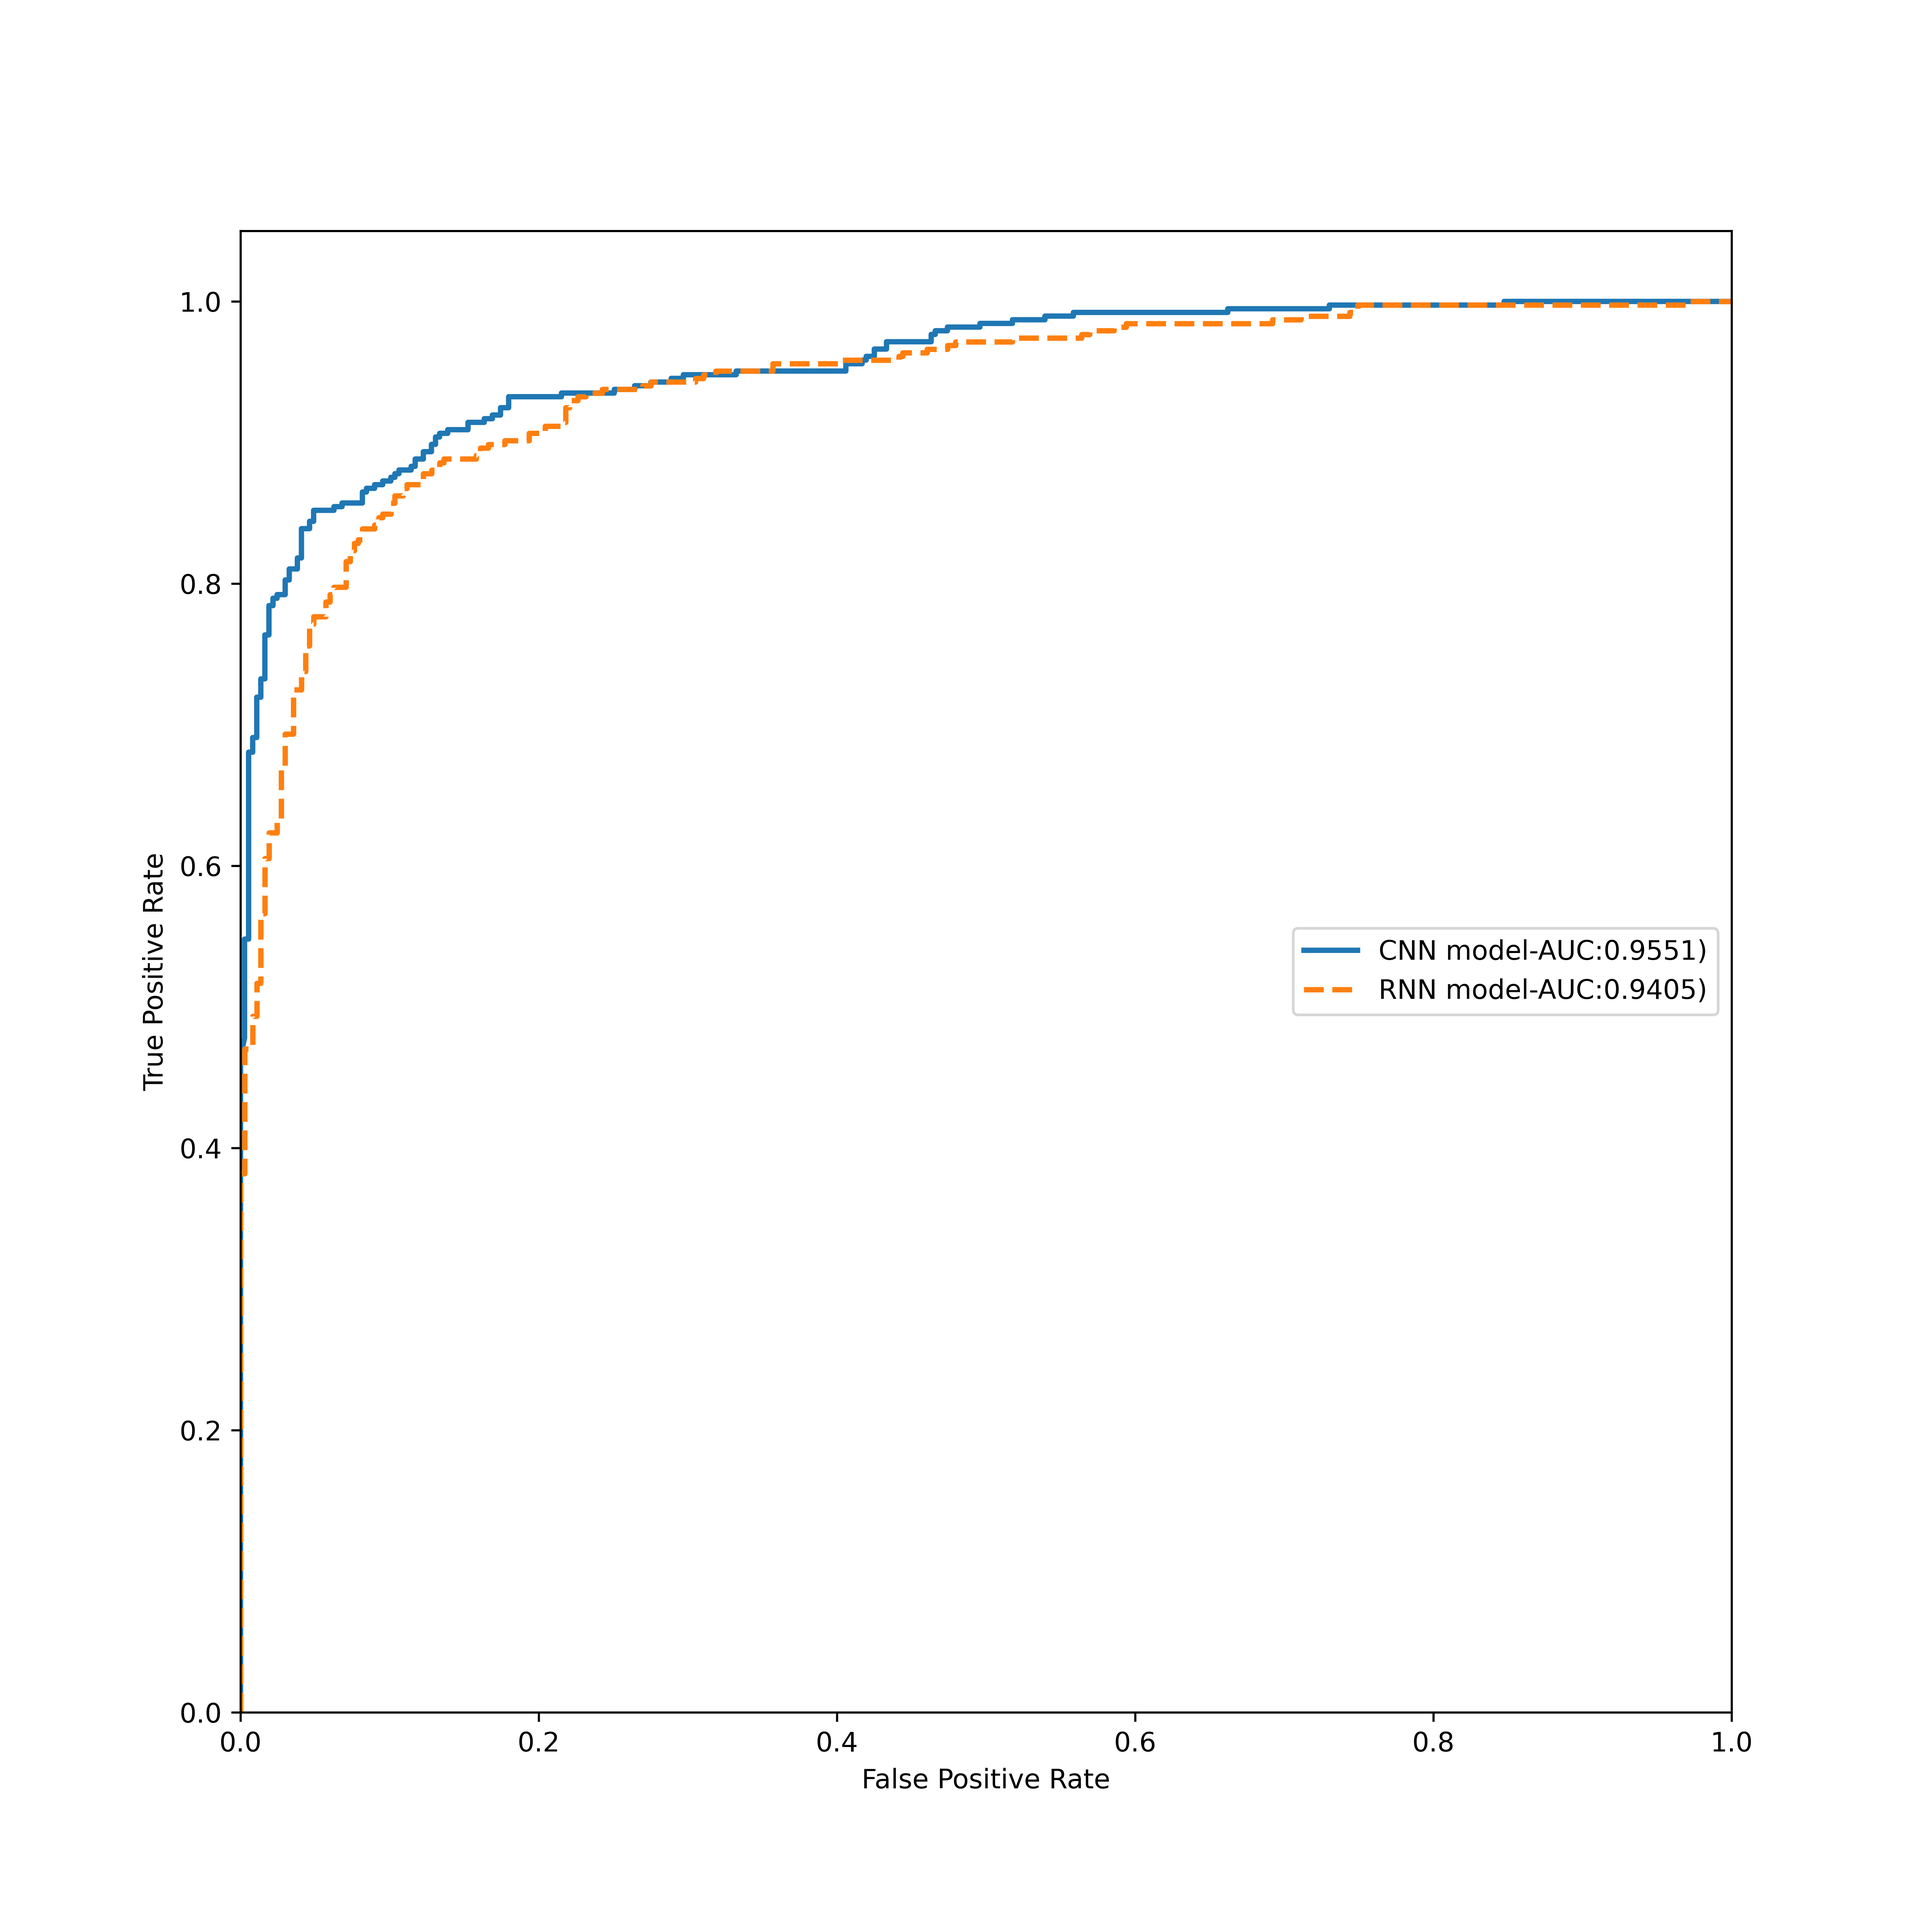
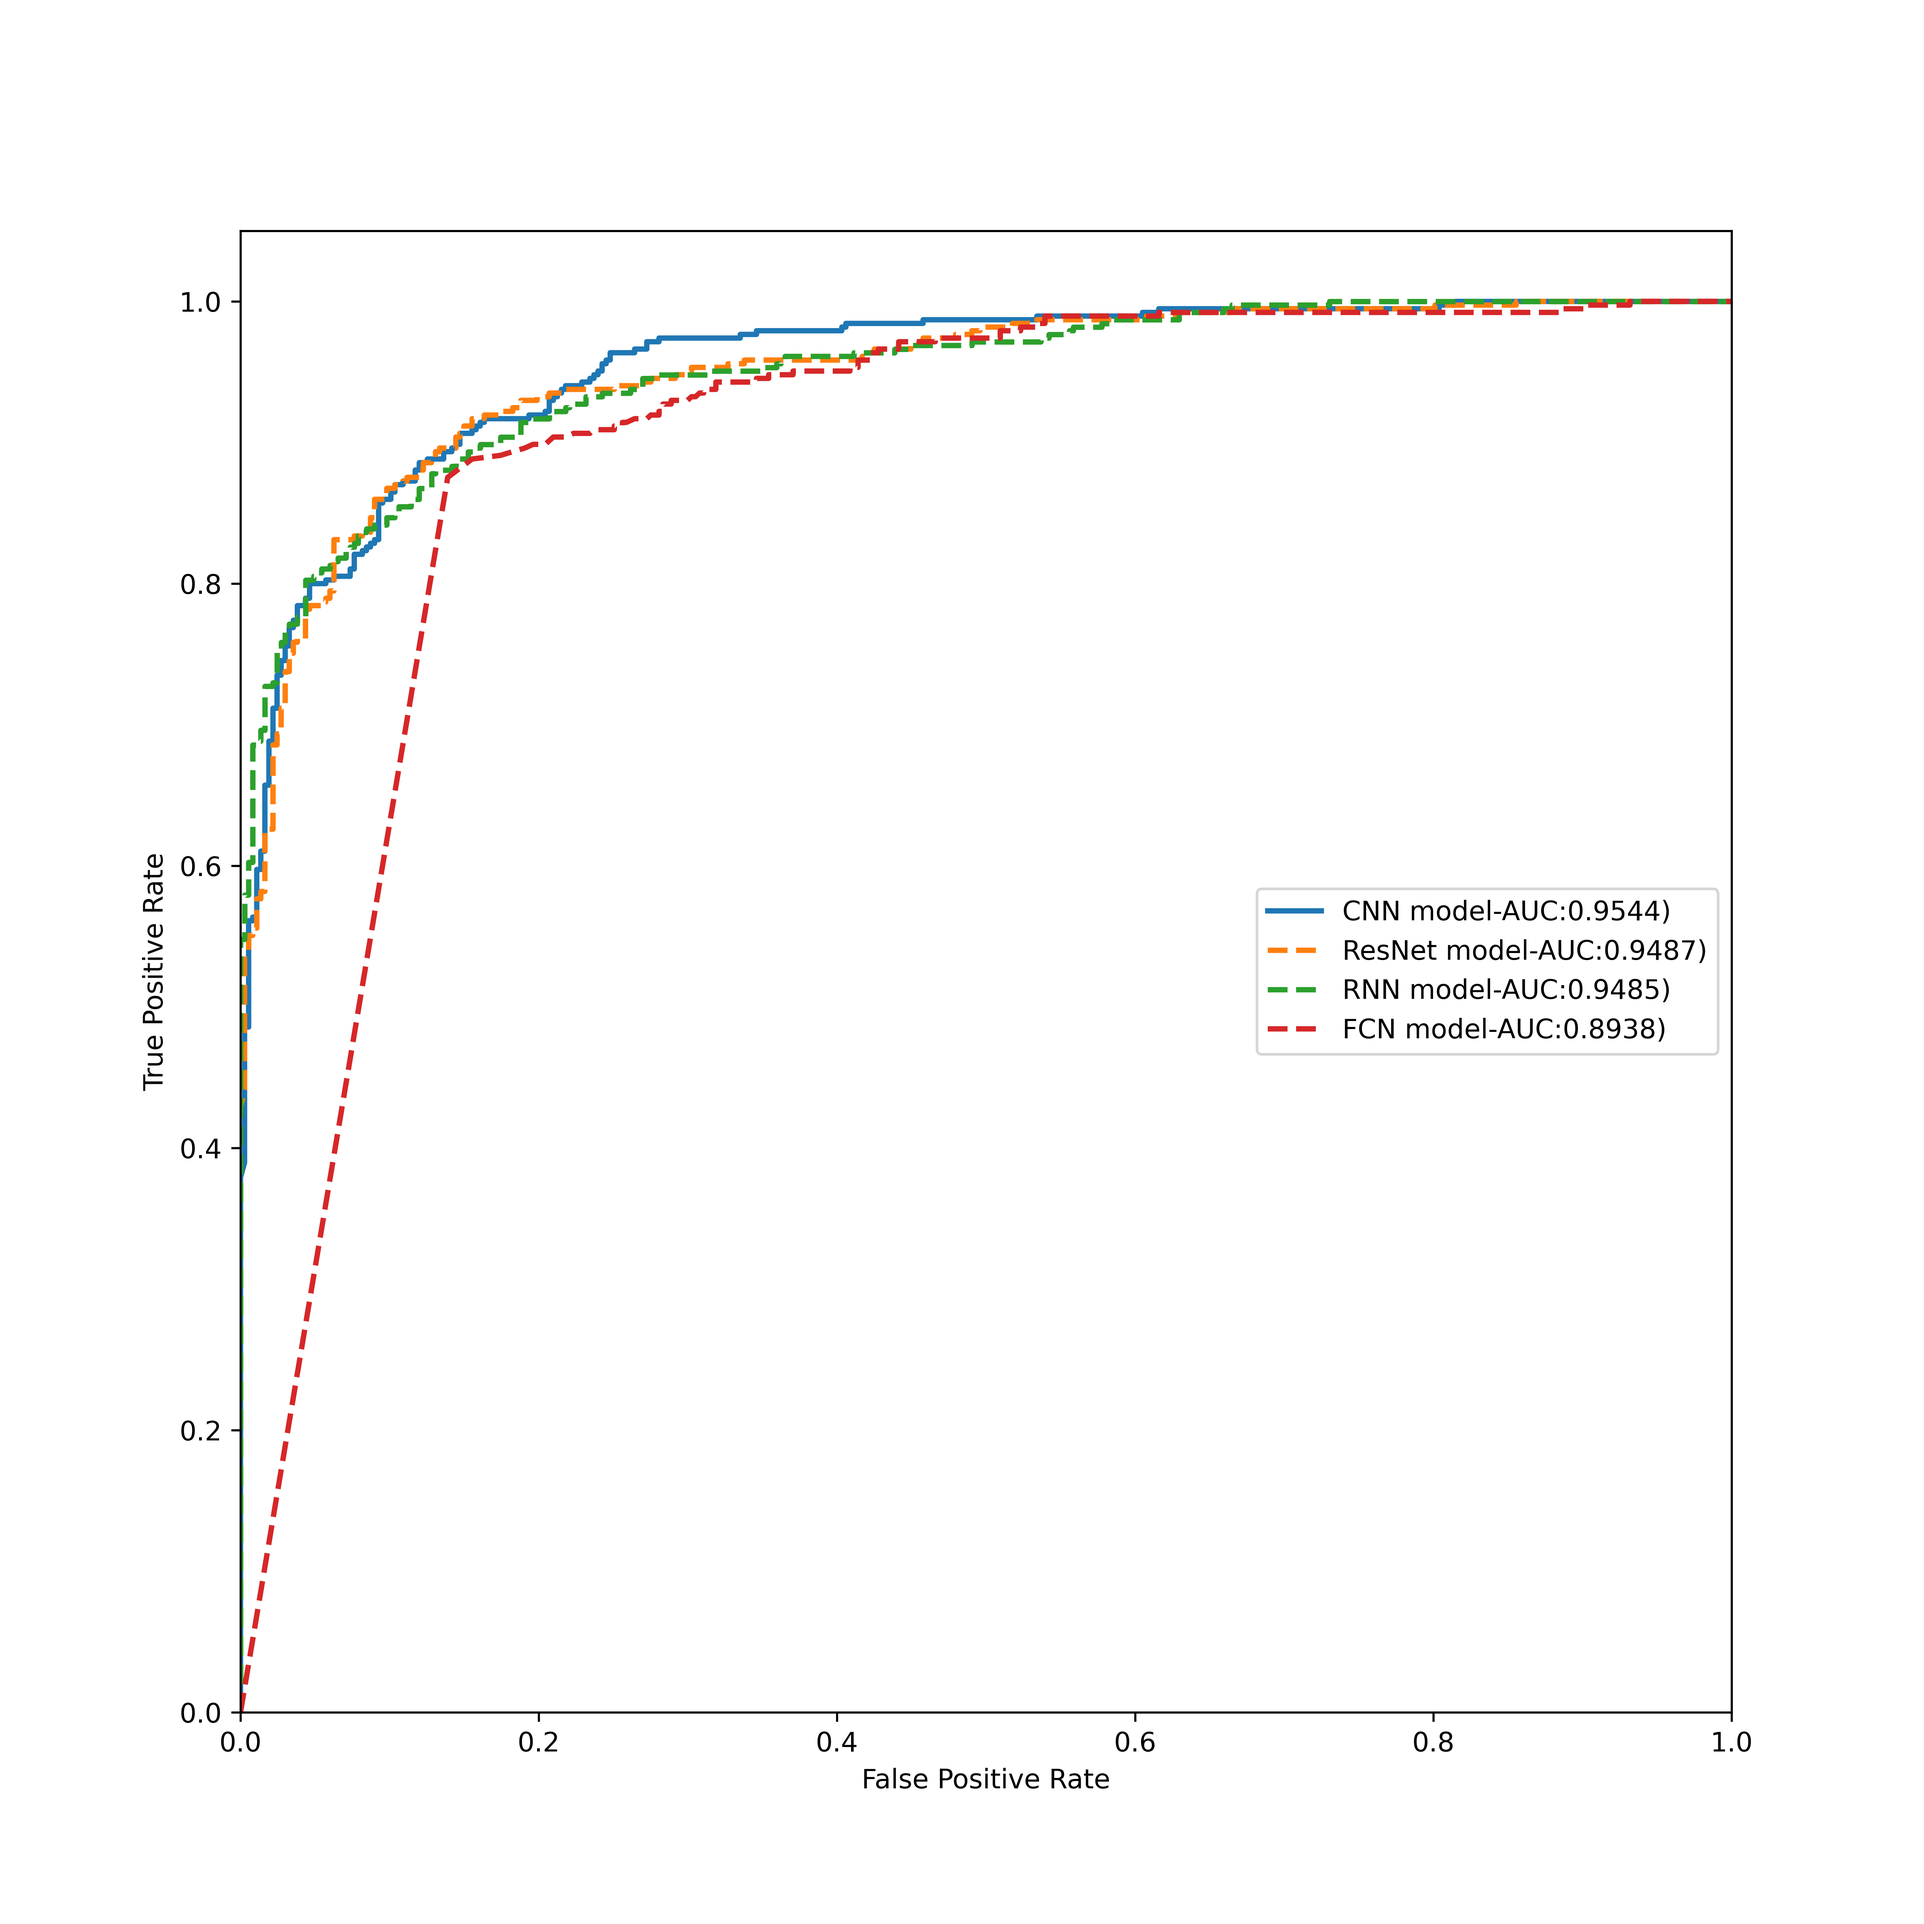
Final result

Changed region(s): [[0.1247, 0.1558, 0.8727, 0.561], [0.6545, 0.4675, 0.8727, 0.561]]

diff --git a/ROC.py b/ROC.py
@@ -1,19 +1,26 @@
 """ Plotting the ROC curve of CNN and RNN  on test dataset
 """
+
 import numpy as np
 import matplotlib.pyplot as plt
-from sklearn.metrics import roc_curve, auc  ###计算roc和auc
+from sklearn.metrics import roc_curve, auc
+from sklearn.metrics import plot_confusion_matrix
+import scikitplot as skplt
+
+
 #from sklearn import cross_validation
 import sys
 sys.path.append("./data")
 from data import dataSetPartition
 from keras.models import load_model
 
-def ROC_curve():
+def PerformancePlot():
     positive = "data/hsa_new.csv"
     negative = "data/pseudo_new.csv"
     CNN_model_path = "CNN/CNN_model.h5"
     RNN_model_path = "RNN/RNN_model.h5"
+    ResNet_model_path = "ResNet/ResNet_model.h5"
+    FCN_model_path = "FCN/FCN_model.h5"
 
 
     x_train_dataset,y_train_dataset,x_test_dataset,y_test_dataset = \
@@ -22,28 +29,43 @@ def ROC_curve():
     try:
         CNN_model = load_model(CNN_model_path)
         RNN_model = load_model(RNN_model_path)
+        ResNet_model = load_model(ResNet_model_path)
+        FCN_model = load_model(FCN_model_path)
     except Exception:
         print("The model file doesn't exist!")
         exit(1)
     cnn_predict_result = CNN_model.predict(x_test_dataset)
     rnn_predict_result = RNN_model.predict(x_test_dataset)
+    resnet_predict_result = ResNet_model.predict(x_test_dataset)
+    fcn_predict_result = FCN_model.predict(x_test_dataset)
 
     # print(predict_result)
 
     # Compute ROC curve and ROC area for each class
     cnn_fpr,cnn_tpr,cnn_threshold = roc_curve(y_test_dataset[:,0],cnn_predict_result[:,0]) 
-    rnn_fpr,rnn_tpr,rnn_threshold = roc_curve(y_test_dataset[:,0],rnn_predict_result[:,0]) 
+    rnn_fpr,rnn_tpr,rnn_threshold = roc_curve(y_test_dataset[:,0],rnn_predict_result[:,0])
+    resnet_fpr, resnet_tpr, resnet_threshold = roc_curve(y_test_dataset[:, 0], resnet_predict_result[:, 0])
+    fcn_fpr, fcn_tpr, fcn_threshold = roc_curve(y_test_dataset[:, 0], fcn_predict_result[:, 0])
 
-     ## calculate the AUC value
+
+
+    ## calculate the AUC value
     cnn_roc_auc = auc(cnn_fpr,cnn_tpr) 
-    rnn_roc_auc = auc(rnn_fpr,rnn_tpr) 
+    rnn_roc_auc = auc(rnn_fpr,rnn_tpr)
+    resnet_roc_auc = auc(resnet_fpr, resnet_tpr)
+    fcn_roc_auc = auc(fcn_fpr, fcn_tpr)
 
     # plotting
     plt.figure(figsize=(10,10))
     plt.plot(cnn_fpr, cnn_tpr, '-',\
-         linewidth=2, label='CNN model-AUC:%0.4f)' %cnn_roc_auc) 
+         linewidth=2, label='CNN model-AUC:%0.4f)' %cnn_roc_auc)
+    plt.plot(resnet_fpr, resnet_tpr, '--', \
+             linewidth=2, label='ResNet model-AUC:%0.4f)' % resnet_roc_auc)
     plt.plot(rnn_fpr, rnn_tpr, '--',\
-         linewidth=2, label='RNN model-AUC:%0.4f)' %rnn_roc_auc) 
+         linewidth=2, label='RNN model-AUC:%0.4f)' %rnn_roc_auc)
+
+    plt.plot(fcn_fpr, fcn_tpr, '--', \
+             linewidth=2, label='FCN model-AUC:%0.4f)' % fcn_roc_auc)
 
    # plt.plot([0, 1], [0, 1], color='navy', linewidth=2, linestyle='--')
     plt.xlim([0.0, 1.0])
@@ -54,5 +76,14 @@ def ROC_curve():
     plt.legend(loc = "center right")
     plt.savefig("ROC_curve.png",dpi=600)
     plt.show()
+
+    titles = [("ResNet"), ("FCN")]
+    for title in titles:
+       plot_confusion_matrix(ResNet_model,x_test_dataset, y_test_dataset)
+       plt.savefig(title + ".png", dpi = 600)
+       plt.show()
+
+
+
 if __name__  == "__main__":
-    ROC_curve()
+    PerformancePlot()
